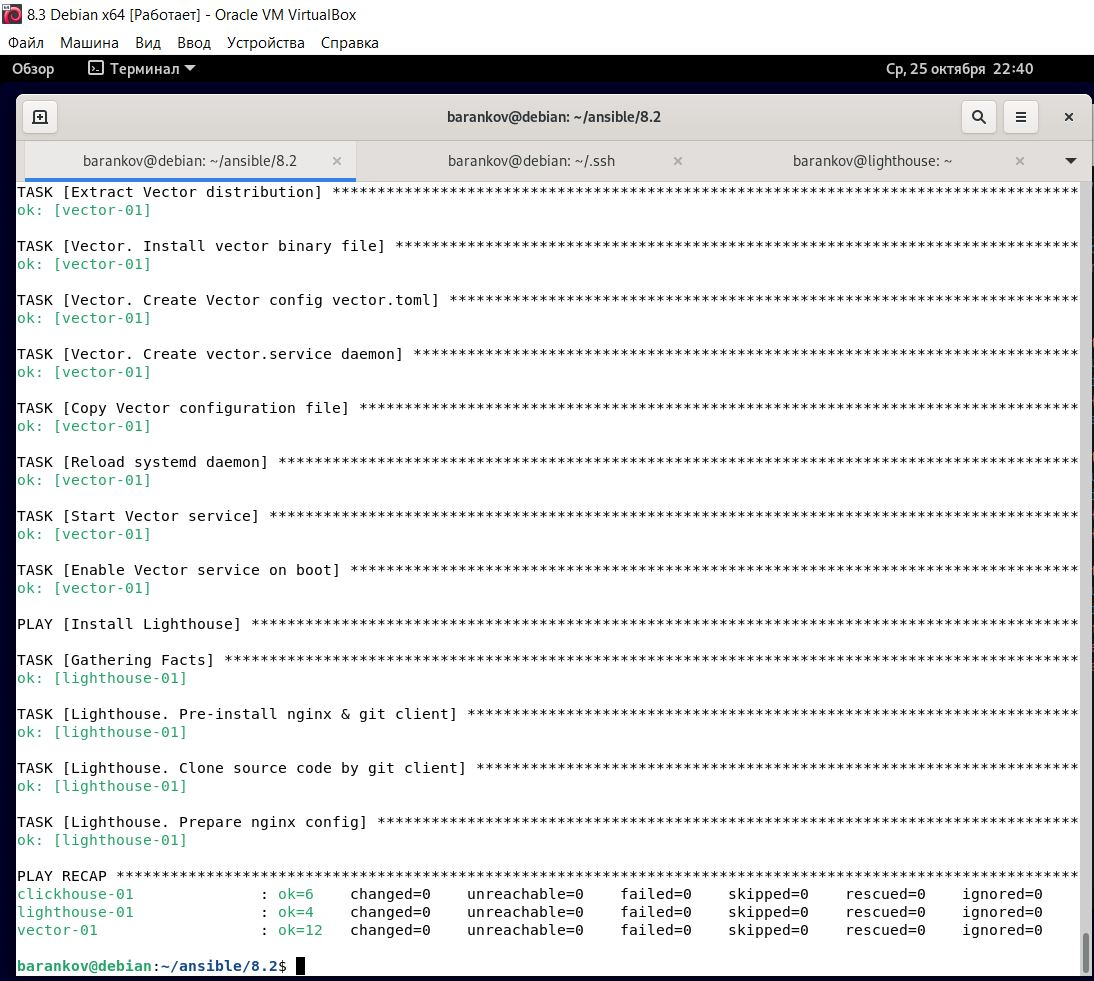
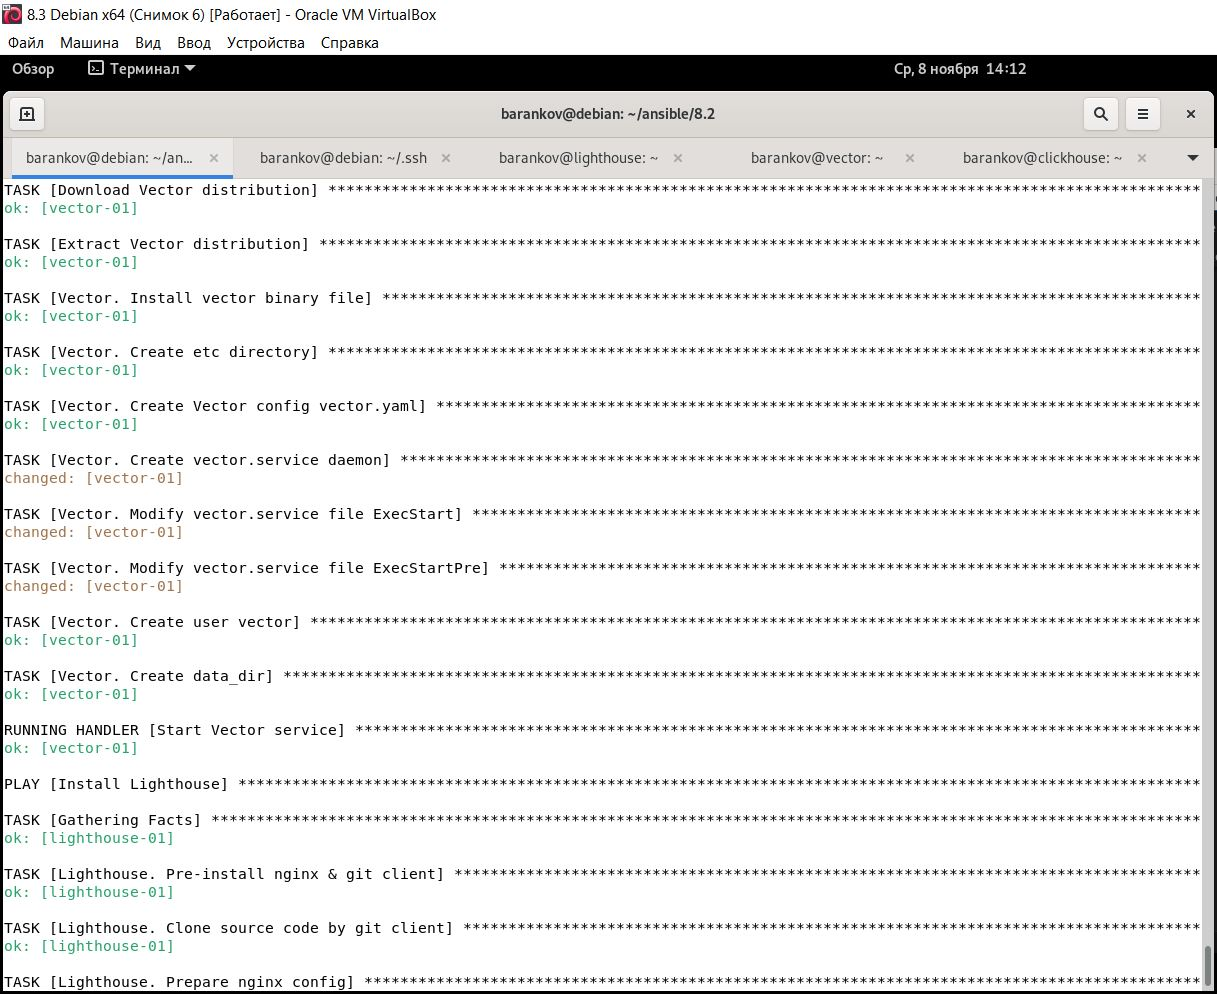
08-ansible-03-yandex

Changed region(s): [[0.0, 0.0, 1.0, 1.0]]

diff --git a/Readme.md b/Readme.md
@@ -20,3 +20,5 @@
 ![Скриншот](img/4.JPG)
 
 ![Скриншот](img/5.JPG)
+
+![Скриншот](img/6.JPG)
